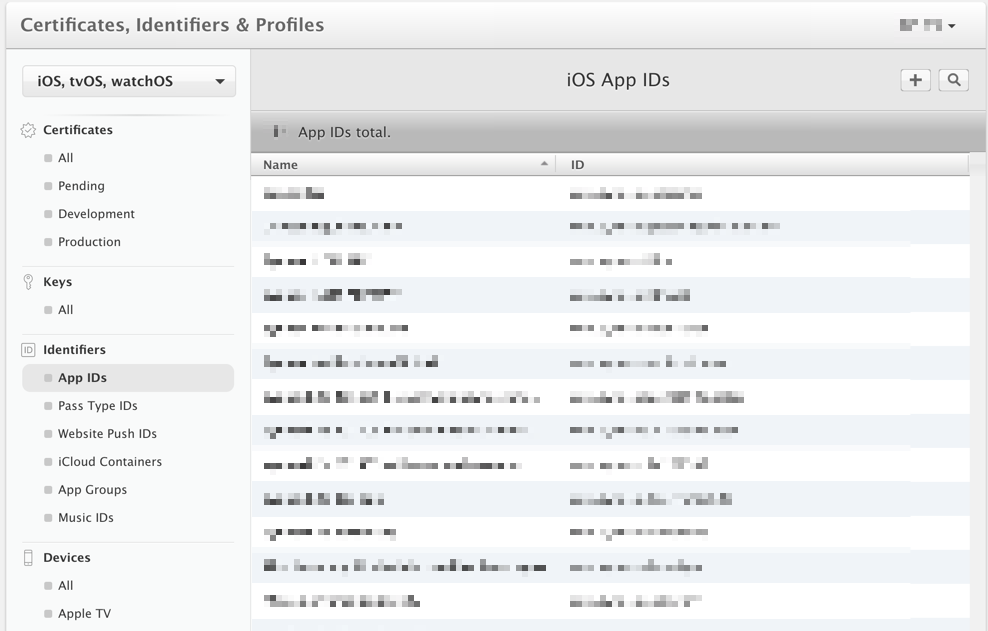
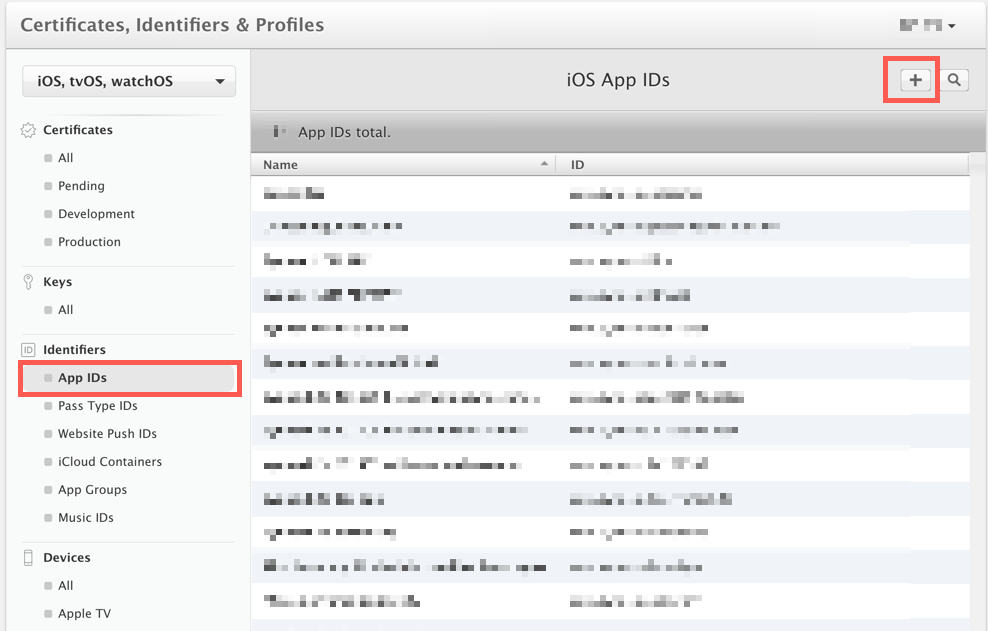
Add new post cordova-week-3

Changed region(s): [[0.0, 0.5721, 0.2429, 0.6323], [0.8806, 0.0903, 0.9717, 0.1807]]

diff --git a/source/_posts/cordova-week-3.md b/source/_posts/cordova-week-3.md
@@ -1,212 +1,141 @@
 ---
-title: "[Cordova Week-2] Cordova Push Notification"
-date: 2018-04-16 19:32:34
+title: "[Cordova Week-3] Cordova Push Notification - iOS"
+date: 2018-04-28 12:32:34
 category:
 - Cordova
 tags:
 - Phonegap plugin
 - Push Notification
-- Cordova-Android
 - Cordova-iOS
+- Azure Notification Hub
 ---
 
 ## 前言
 
-在 Mobile App 的開發中，推播通知已經是不可或缺的 App 功能之一，大部分的商業 APP 都一定有推播通知的功能，因此，這次要介紹如何安裝與使用 Phonegap Plugin Push 並透過 Azure Notification Hub 實現 Android 與 iOS 的即時推播訊息功能。
+上一篇我們介紹了如何建立 FCM 並將 API 金鑰設定至 Azure，最後完成訊息推播測試，本篇將繼續說明 iOS 訊息推播要如何設定，主要的步驟有：
 
-## 什麼是 Phonegap-plugin-push?
+1. 建立 iOS 推播通知憑證
+2. 上傳 p12 與設定 Azure Notification Hub
+3. 進行推播測試
 
-Phonegap-plugin-push 提供使用**單一獨立的 API** 來支援接收及處理原生 push notification。但這不是指我們可以發送單一個訊息並在不同作業系統上都能收到。基本上 Android 使用的是 FCM，iOS 則使用 APNS，而且他們的 payload 都很不一樣。即使在 Android 及 iOS 都使用 FCM，也是需要提供不同的 payload 才能使套件正常運作。對 Android 來說，每一次的推播內容都會在 payload 存放 `data` 的物件，可以參考 [Notification vs Data Payload](https://github.com/phonegap/phonegap-plugin-push/blob/master/docs/PAYLOAD.md#notification-vs-data-payloads) 這篇文章。iOS 的話可以依照 [FCM documentation](https://firebase.google.com/docs/cloud-messaging/http-server-ref)。
+## 建立 App Identity (App ID)
 
-筆者主要是透過 [Azure Notification Hub](https://docs.microsoft.com/zh-tw/azure/app-service-mobile/app-service-mobile-cordova-get-started-push) 發送推播訊息， Azure Notification Hub 同時提供了方便管理的介面，讓我們只需要透過一個通知中樞，並根據不同的平台提供不同的 payload 即可輕鬆的實現推播訊息通知的功能！
-
-### 安裝需求
-
-在安裝之前需要檢查一下對應的 Cordova 所支援的版本，若選擇的版本是較舊的 Cordova-Android 6.0.0 與  Cordova-iOS 4.3，則需要留意套件的版本要裝 1.9.0 的。
-
-| Plugin version | Cordova CLI | Cordova Android | Cordova iOS | CocoaPods |
-| -------------- | ----------- | --------------- | ----------- | --------- |
-| 2.0.0          | 7.0.0       | 6.2.1           | 4.4.0       | 1.1.1     |
-| 1.9.0          | 6.4.0       | 6.0.0           | 4.3.0       | 1.1.1     |
-| 1.8.0          | 3.6.3       | 4.0.0           | 4.1.0       | N/A       |
+iOS 平台需要先進入 Apple Developer 的管理介面建立 `AppId`，並啟動 `Push Notifications` 的功能。另外，要準備一台 MacOS 裝置，透過鑰匙圈 ( Keychain ) 工具建立 CSR ( Certificate Signing Request )，將檔案上傳轉換成憑證並下載，點擊加入鑰匙圈後匯出 p12 檔，將 p12 檔上傳至 Azure Notification Hub 的 Apple 設定中。
 
 <!--more-->
 
-### 指令安裝
+!['點擊 `Certificate, Identifiers & Profiles` 進入管理介面'](./cordova-week-3/ios-create-app-id-0.png)
 
-透過指令工具進行安裝：
+![點選 `App IDs`，並點選右上角 `+` 符號新增 App ID](./cordova-week-3/ios-create-app-id-1.png)
+
+![輸入關於此 App 的描述](./cordova-week-3/ios-create-app-id-2.png)
+
+![輸入與 cordova 專案的 `config.xml` 相同的 id](./cordova-week-3/ios-create-app-id-3.png)
+
+![勾選 `Push Notifications`](./cordova-week-3/ios-create-app-id-4.png)
+
+勾選完成後，點擊下方藍色的 `Continue` 按鈕繼續下一步：
+
+![確認資料無誤後，點擊 `Register` 建立 App ID](./cordova-week-3/ios-create-app-id-5.png)
+
+完成 APP IDs 新增後，可以看到目前 App 的 `Push Notifications` 狀態為 `Configurable`，也就是待設定中，點擊下方的 `Edit` 進行設定。
+
+![確認 `Push Notifications` 狀態後，點擊 Edit ](./cordova-week-3/ios-create-app-id-7.png)
+
+點擊 `Edit` 按鈕後，可以看到關於此 App 的服務相關設定，將捲軸滾到 `Push Notifications` 的地方，並點擊 `Development SSL Certificate` 的 `Create Certificate` 按鈕建立憑證：
+
+![點擊開發用的 SSL 憑證建立按鈕](./cordova-week-3/ios-create-push-certificate-1.png)
+
+由於建立憑證需要上傳 CSR，因此在這之前，需要先透過鑰匙圈工具建立 CSR。
+
+## 建立 CSR ( Certificate Signing Request )
+
+首先在 MacOS 的裝置上開啟鑰匙圈存取 ( Keychain )：
+
+![開啟鑰匙圈存取](./cordova-week-3/ios-create-csr-1.png)
+
+功能選單點擊`鑰匙圈存取` =>`憑證輔助程式`=>`從憑證授權要求憑證`：
+
+![從憑證授權要求憑證](./cordova-week-3/ios-create-csr-2.png)
+
+電子郵件地址建議輸入真實的位置，由於是自己本機產生的，不需要寄送電子郵件給 CA，因此選擇儲存到磁碟即可。
+
+![輸入電子郵件並選擇儲存到磁碟](./cordova-week-3/ios-create-csr-3.png)
+
+![選擇要儲存的位置](./cordova-week-3/ios-create-csr-4.png)
+
+## 建立 APNS 憑證
+
+回到 `Create Certificate` 之後的頁面，點擊最下方 `continue` 按鈕進入下一頁，並點擊 `Choose File` 上傳 CSR：
+
+![選取完成之後點擊 `Continue` 上傳](./cordova-week-3/ios-create-push-certificate-2.png)
+
+上傳完成後即可建立憑證，點擊 `Download` 下載憑證：
+
+![點擊 `Download` 下載憑證](./cordova-week-3/ios-create-push-certificate-3.png)
+
+憑證下載完成之後，點擊兩下即可將憑證加入至鑰匙圈存取工具中，即可看到加入的憑證：
+
+![將下載的憑證點擊兩下加入鑰匙圈存取工具](./cordova-week-3/ios-create-push-certificate-4.png)
+
+加入之後點擊右鍵選取輸出憑證：
+
+![點擊右鍵輸出憑證](./cordova-week-3/ios-create-push-certificate-5.png)
+
+輸入檔名後，點擊儲存：
+
+![輸入檔名後點擊儲存](./cordova-week-3/ios-create-push-certificate-6.png)
+
+設定 p12 檔的存取密碼，設定完成後即可完成輸出：
+
+![設定存取密碼後即可完成輸出](./cordova-week-3/ios-create-push-certificate-7.png)
+
+
+
+## 設定 Azure Notification Hub
+
+最後一個步驟，在取得 p12 檔之後，需要上傳至 Azure Notification Hub，如此一來才能順利存取 APNS 的服務，並透過 Azure 通知中樞進行推播。
+
+Apple 的 APNS 設定畫面，選擇上傳 `Certifiate` 的方式進行設定：
+
+![](./cordova-week-3/ios-create-push-certificate-8.png)
+
+應用程式模式的部分，由於我們建立的是開發用的測試憑證，因此應用程式模式要選擇沙箱 ( Sandbox )，儲存之後即可完成通知中樞 Apple 平台的設定。
+
+回到 Cordova 專案，輸入指令進行 iOS 建置：
 
 ```bash
-$ cordova plugin add phonegap-plugin-push
+$ cordova build ios
 ```
 
-安裝完成後可以看到 `config.xml` 出現如下的內容：
+建置完成後到 Cordova 專案目錄下的 `platforms/ios` 路徑，開啟 `xcworkspace` 檔：
 
-```xml
-<plugin name="phonegap-plugin-push" spec="^2.1.2" />
-```
+![開啟 `xcworkspace` 檔](./cordova-week-3/open-xcworkspace.png)
 
+由於推播訊息的測試無法透過模擬器進行，因此需要一台實體的 iOS 裝置，並將裝置註冊到開發的管理後台，Xcode 提供了快速註冊的功能，當接上 iOS 裝置後選擇部署目標為實體裝置時，Xcode 會進行裝置的確認，若尚未註冊裝置則會出現錯誤的提示訊息，此時在 Signing 的部分會出現一個 `Register Device` 按鈕，點擊即可自動註冊。
 
+![有時候會遇到簽署失敗的情況，可以先將 `Automatically manage signing` 的選項打勾取消](./cordova-week-3/build-app.png)
 
-## 建立 Azure 通知中樞
+選擇部署裝置後，點選 `Capabilities` 分頁，確認推播的服務是否有啟用：
 
-首先點選左上角建立資源，選擇 `Web + 行動` 的類別，可以看到 `Notification Hub`：
+![確認是否有啟用推播服務](./cordova-week-3/check-apns.png)
 
-![](/Users/crazyalu/Blog/source/_posts/cordova-week-2/create-azure-hub-step-1.png)
+部署到裝置上，點擊 `Push Init` 按鈕：
 
-輸入 Notification Hub 相關資料，完成後點擊建立按鈕：
+![進行推播功能初始化，點選允許傳送通知](./cordova-week-3/demo-1.jpg)
 
-![](/Users/crazyalu/Blog/source/_posts/cordova-week-2/create-azure-hub-step-2.png)
+允許傳送通知後，即可完成推播功能初始化並取得註冊 token，然後點擊 `Registration` 將 token 傳到後端：
 
-回到儀表板，可以看到剛建立好的通知中樞：
+![註冊裝置完成](./cordova-week-3/demo-2.jpg)
 
-![](/Users/crazyalu/Blog/source/_posts/cordova-week-2/azure-dash-board.png)
+回到 Azure 通知中樞，進行測試傳送：
 
-點擊通知中樞可以看到詳細資訊：
+![選擇平台後，即可發送測試](./cordova-week-3/test-push.png)
 
-![NOTIFICATION SETTINGS 則是通知中樞所支援的平台](/Users/crazyalu/Blog/source/_posts/cordova-week-2/create-azure-hub-step-3.png)
+收到推播訊息囉！
 
-## 實作 Cordova App 接收推播通知功能
-
-- Sample Code
-  - Initialize PushNotification
-  - WebAPI Post platform info and device token
-
-
-#### 初始化設定
-
-```typescript
-  initNotification() {
-    const senderID = environment.senderId;
-    const pushConfig: PhonegapPluginPush.InitOptions = {
-      android: {
-        senderID: senderID
-      },
-      ios: { alert: true, badge: true, sound: true }
-    };
-
-    this.pushNotification = PushNotification.init(pushConfig);
-	
-    // 進行註冊
-    this.pushNotification.on('registration', data => {
-      // Get the native platform of the device.
-      const platform = device.platform;
-      // Get the handle returned during registration.
-      const registId = data.registrationId;
-      // Set the device-specific message template.
-      if (platform === 'android' || platform === 'Android') {
-        // Register for GCM notifications.
-        this.handleData = { Platform: 'gcm', DeviceToken: registId };
-      } else if (device.platform === 'iOS') {
-        // Register for notifications.
-        this.handleData = { Platform: 'apns', DeviceToken: registId };
-      }
-      console.log(`取得 token`, data.registrationId);
-    });
-	
-    // 收到訊息時
-    this.pushNotification.on('notification', data => {
-      console.log(`got notification!`, data);
-      // data.message,
-      // data.title,
-      // data.count,
-      // data.sound,
-      // data.image,
-      // data.additionalData
-    });
-	
-    // 發生錯誤時
-    this.pushNotification.on('error', e => {
-      console.log(`Notification Error: ${e.message}`, e);
-    });
-  }
-```
-
-
-
-#### 註冊裝置
-
-```typescript
-registDevice(): Observable<any> {
-    // console.log(`進行推播註冊`, environment.serverUrl);
-    // console.log(`device token`, this.handleData.DeviceToken);
-    // console.log(`platform`, this.handleData.Platform);
-    return this.http
-      .post<any>(
-        environment.apiUrl,
-        this.handleData,
-      )
-      .pipe(
-        catchError(err => {
-          console.log(`notificationService registDevice error`, err);
-          return Observable.throw(err);
-        })
-      );
-  }
-```
-
-
-
-
-## Android 平台設定
-
-### 建立 FCM Project
-
-要推播訊息到 Android 系統，需要先建立 [FCM](https://console.firebase.google.com/) ( Firebase Cloud Message ) 專案，登入 Google 帳號後可以看到以下的畫面，點選新增專案：
-
-![](./cordova-week-2/create-fcm-project-step-1.png)
-
-然後輸入專案相關資訊：專案名稱、ID 及國家或地區，並點擊建立專案。
-
-![](./cordova-week-2/create-fcm-project-step-2.png)
-
-專案建立完成後，會進到專案的 dash board，點選左上角的齒輪展開選單，點擊`專案設定`：
-
-![](./cordova-week-2/create-fcm-project-step-3.png)
-
-點選後會看到專案的相關資訊，捲軸滾到下方可以看到目前專案中沒有任何應用程式，點擊中間將 Firebase 加入您的 Android 應用程式的選項：
-
-![](./cordova-week-2/fcm-create-android-app.png)
-
-點擊後進入新增 Android 應用程式的畫面，輸入 App 相關資訊，輸入完成後點擊註冊應用程式：
-
-![](./cordova-week-2/fcm-create-android-app-2.png)
-
-註冊完成之後，點選 下載 google-services.json` 按鈕進行下載，並將檔案存放在 Cordova 專案的根目錄。
-
-![](./cordova-week-2/fcm-create-android-app-3.png)
-
-下載完成之後再回到 Cordova 專案的 `config.xml` 設定檔，在 Android 的 `platform` 區塊中加上以下的內容：
-
-```xml
- <platform name="android">
-        <allow-intent href="market:*" />
-        <resource-file src="google-services.json" target="app/google-services.json" />
-</platform>
-```
-
-FCM 的部分設定完成後，我們還需要將 API Key 存放至 Azure Notification Hub 的設定中，因此回到專案的主控台，雖然在一般的分頁下可以看到 `網路 API 金鑰`，但這似乎還是舊版的，筆者在 Azure 輸入設定時會遇到錯誤的情況，因此新版的部分要點選 ` CLOUD MESSAGING` 標籤進入：
-
-![](./cordova-week-2/create-fcm-project-step-4.png)
-
-會看到專案憑證的資訊及寄件者 ID，而伺服器金鑰則是建立 Azure Notification Hub 之後要設定的 API Key：
-
-![](./cordova-week-2/create-fcm-project-step-5.png)
-
-進入 Googel ( GCM ) 的設定，並將複製的 API Key 貼上：
-
-![](./cordova-week-2/android-add-api-key.png)
-
-### Azure Notification Hub 測試推播
-
-完成設定之後，可以到側欄下方有個`支援與疑難排解`的類別，底下有個 `Test Send` 連結，點選後會看到測試發送的畫面，確認 Cordova App 的 Device Token 有順利註冊成功後，選擇 Android 平台即可立即發送測試。
-
-![](./cordova-week-2/android-send-test.png)
-
-
+![](./cordova-week-3/final-demo.jpg)
 
 ## 小結
 
-經過以上的介紹我們可以知道要如何安裝 `phonegap-plugin-push` 並建立 FCM Project 後，將 `google-service.json` 加入 Cordova 專案中，同時將伺服器金鑰設定至 Azure Notification Hub 中，最後來一發測試訊息，大功告成！
-
-Apple 的部分，由於需要另外建立推播服務的憑證，下篇文章會再針對 APNS 的部分去做說明，若沒接觸過 Apple Develope 後台，想實作推播功能的話，需要花點時間了解 Apple 的 App Identity 與憑證的建立方式，才能順利實作囉。
+透過以上的介紹，我們可以知道如何建立 App ID，並且透過 MacOS 的鑰匙圈存取工具建立 CSR 檔案，將 CSR 上傳到 APNS 建立憑證，將憑證下載並加入鑰匙圈，然後匯出成 p12 檔，將 p12 檔上傳至 Azure 通知中樞設定，利用 Cordova build 指令部署到測試的實體裝置中，最後發送測試。

diff --git a/source/_posts/cordova-week-2.md b/source/_posts/cordova-week-2.md
@@ -1,5 +1,5 @@
 ---
-title: "[Cordova Week-2] Cordova Push Notification"
+title: "[Cordova Week-2] Cordova Push Notification - Android"
 date: 2018-04-16 19:32:34
 category:
 - Cordova
